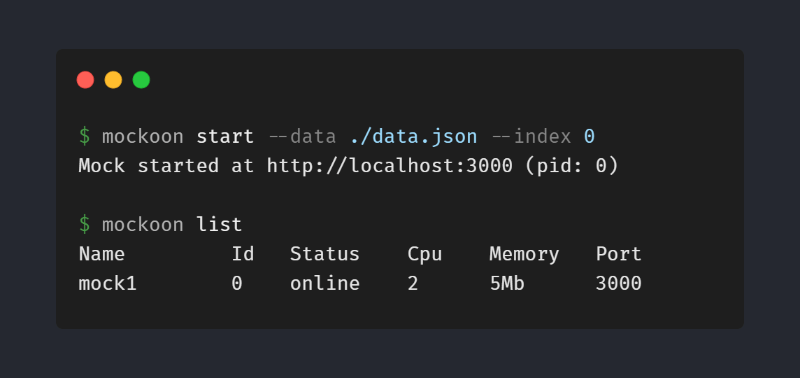
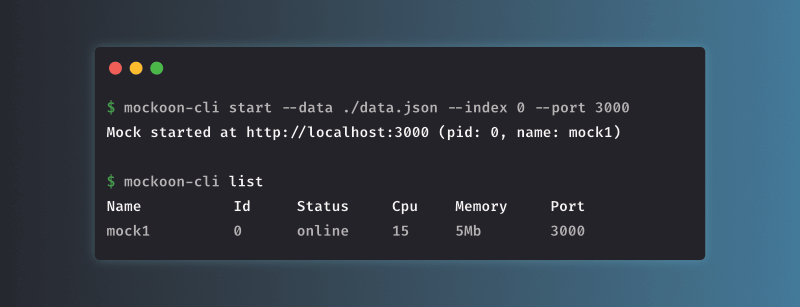
Rename command to mockoon-cli
Closes #15

diff --git a/src/commands/dockerize.ts b/src/commands/dockerize.ts
@@ -16,10 +16,10 @@ export default class Dockerize extends Command {
     'Create a Dockerfile to build a self-contained image of a mock API';
 
   public static examples = [
-    '$ mockoon dockerize --data ~/export-data.json --output ./Dockerfile',
-    '$ mockoon dockerize --data ~/export-data.json --index 0 --output ./Dockerfile',
-    '$ mockoon dockerize --data https://file-server/export-data.json --index 0 --output ./Dockerfile',
-    '$ mockoon dockerize --data ~/export-data.json --name "Mock environment" --output ./Dockerfile'
+    '$ mockoon-cli dockerize --data ~/export-data.json --output ./Dockerfile',
+    '$ mockoon-cli dockerize --data ~/export-data.json --index 0 --output ./Dockerfile',
+    '$ mockoon-cli dockerize --data https://file-server/export-data.json --index 0 --output ./Dockerfile',
+    '$ mockoon-cli dockerize --data ~/export-data.json --name "Mock environment" --output ./Dockerfile'
   ];
 
   public static flags = {

diff --git a/src/commands/start.ts b/src/commands/start.ts
@@ -20,11 +20,11 @@ export default class Start extends Command {
   public static description = 'Start a mock API';
 
   public static examples = [
-    '$ mockoon start --data ~/export-data.json',
-    '$ mockoon start --data ~/export-data.json --index 0',
-    '$ mockoon start --data https://file-server/export-data.json --index 0',
-    '$ mockoon start --data ~/export-data.json --name "Mock environment"',
-    '$ mockoon start --data ~/export-data.json --name "Mock environment" --pname "proc1"'
+    '$ mockoon-cli start --data ~/export-data.json',
+    '$ mockoon-cli start --data ~/export-data.json --index 0',
+    '$ mockoon-cli start --data https://file-server/export-data.json --index 0',
+    '$ mockoon-cli start --data ~/export-data.json --name "Mock environment"',
+    '$ mockoon-cli start --data ~/export-data.json --name "Mock environment" --pname "proc1"'
   ];
 
   public static flags = {

diff --git a/src/commands/stop.ts b/src/commands/stop.ts
@@ -10,10 +10,10 @@ import { logProcesses } from '../libs/utils';
 export default class Stop extends Command {
   public static description = 'Stop a mock API';
   public static examples = [
-    '$ mockoon stop',
-    '$ mockoon stop 0',
-    '$ mockoon stop "name"',
-    '$ mockoon stop "all"'
+    '$ mockoon-cli stop',
+    '$ mockoon-cli stop 0',
+    '$ mockoon-cli stop "name"',
+    '$ mockoon-cli stop "all"'
   ];
 
   public static flags = {

diff --git a/src/constants/docker.constants.ts b/src/constants/docker.constants.ts
@@ -4,7 +4,7 @@ RUN npm install -g @mockoon/cli@{{{version}}}
 COPY {{{filePath}}} ./data
 
 # Build runner script
-RUN echo "mockoon start \\"\\$@\\"; sleep infinity & wait \\$!" > mockoon-runner.sh
+RUN echo "mockoon-cli start \\"\\$@\\"; sleep infinity & wait \\$!" > mockoon-runner.sh
 
 # Do not run as root.
 RUN adduser --shell /bin/sh --disabled-password --gecos "" mockoon

diff --git a/src/commands/info.ts b/src/commands/info.ts
@@ -10,8 +10,8 @@ export default class Info extends Command {
   public static description = 'Display information for a running mock API';
 
   public static examples = [
-    '$ mockoon info 0',
-    '$ mockoon info "Mock_environment"'
+    '$ mockoon-cli info 0',
+    '$ mockoon-cli info "Mock_environment"'
   ];
 
   public static args = [

diff --git a/src/commands/list.ts b/src/commands/list.ts
@@ -8,7 +8,7 @@ import { logProcesses } from '../libs/utils';
 export default class List extends Command {
   public static description = 'List running mock APIs';
 
-  public static examples = ['$ mockoon list'];
+  public static examples = ['$ mockoon-cli list'];
   public static flags = {
     ...commonFlags
   };

diff --git a/README.md b/README.md
@@ -26,12 +26,12 @@ The CLI supports the same features as the main application: [templating system](
 - [Export your mock to use in the CLI](#export-your-mock-to-use-in-the-cli)
 - [Compatibility](#compatibility)
 - [Commands](#commands)
-  - [`mockoon start`](#mockoon-start)
-  - [`mockoon list`](#mockoon-list)
-  - [`mockoon info [ID]`](#mockoon-info-id)
-  - [`mockoon stop [ID]`](#mockoon-stop-id)
-  - [`mockoon dockerize`](#mockoon-dockerize)
-  - [`mockoon help [COMMAND]`](#mockoon-help-command)
+  - [`mockoon-cli start`](#mockoon-cli-start)
+  - [`mockoon-cli list`](#mockoon-cli-list)
+  - [`mockoon-cli info [ID]`](#mockoon-cli-info-id)
+  - [`mockoon-cli stop [ID]`](#mockoon-cli-stop-id)
+  - [`mockoon-cli dockerize`](#mockoon-cli-dockerize)
+  - [`mockoon-cli help [COMMAND]`](#mockoon-cli-help-command)
 - [Docker](#docker)
   - [Using the generic Docker image](#using-the-generic-docker-image)
   - [Using the `dockerize` command](#using-the-dockerize-command)
@@ -52,7 +52,7 @@ $ npm install -g @mockoon/cli
 Usage: 
 
 ```sh-session
-$ mockoon COMMAND
+$ mockoon-cli COMMAND
 ```
 
 ## Export your mock to use in the CLI
@@ -71,10 +71,10 @@ To export your environment(s) to use them in the CLI, follow these steps:
   
 2. Choose a folder to save the JSON file.
    
-3. Use the [start command](#mockoon-start) below to launch your mock APIs with the CLI:
+3. Use the [start command](#mockoon-cli-start) below to launch your mock APIs with the CLI:
 
     ```sh-sessions
-    $ mockoon start --data ~/path/to/your-file.json -i 0
+    $ mockoon-cli start --data ~/path/to/your-file.json -i 0
     ```
 
 You will find more details in the [official documentation](https://mockoon.com/docs/latest/import-export-data/).
@@ -91,21 +91,21 @@ The CLI can import and migrate data from older versions of Mockoon. If you expor
 
 ## Commands
 
-- [`mockoon start`](#mockoon-start)
-- [`mockoon list`](#mockoon-list)
-- [`mockoon info [ID]`](#mockoon-info-id)
-- [`mockoon stop [ID]`](#mockoon-stop-id)
-- [`mockoon dockerize`](#mockoon-dockerize)
-- [`mockoon help [COMMAND]`](#mockoon-help-command)
+- [`mockoon-cli start`](#mockoon-cli-start)
+- [`mockoon-cli list`](#mockoon-cli-list)
+- [`mockoon-cli info [ID]`](#mockoon-cli-info-id)
+- [`mockoon-cli stop [ID]`](#mockoon-cli-stop-id)
+- [`mockoon-cli dockerize`](#mockoon-cli-dockerize)
+- [`mockoon-cli help [COMMAND]`](#mockoon-cli-help-command)
 
-### `mockoon start`
+### `mockoon-cli start`
 
 Starts a mock API from a Mockoon's export file environment. As an export file can contain multiple environments, you can indicate the one you want to run by specifying its index in the file or its name.
 The process will be created by default with the name and port of the Mockoon's environment. You can override these values by using the `--port` and `--pname` flags.
 
 ```
 USAGE
-  $ mockoon start
+  $ mockoon-cli start
 
 OPTIONS
   -d, --data=data    (required) Path or URL to your Mockoon data export file
@@ -116,35 +116,35 @@ OPTIONS
   -h, --help         show CLI help
 
 EXAMPLES
-  $ mockoon start --data ~/export-data.json
-  $ mockoon start --data ~/export-data.json --index 0
-  $ mockoon start --data https://file-server/export-data.json --index 0
-  $ mockoon start --data ~/export-data.json --name "Mock environment"
-  $ mockoon start --data ~/export-data.json --name "Mock environment" --pname "proc1"
+  $ mockoon-cli start --data ~/export-data.json
+  $ mockoon-cli start --data ~/export-data.json --index 0
+  $ mockoon-cli start --data https://file-server/export-data.json --index 0
+  $ mockoon-cli start --data ~/export-data.json --name "Mock environment"
+  $ mockoon-cli start --data ~/export-data.json --name "Mock environment" --pname "proc1"
 ```
 
-### `mockoon list`
+### `mockoon-cli list`
 
 Lists the running mock APIs and display some information: process name, pid, status, cpu, memory, port.
 
 ```
 USAGE
-  $ mockoon list
+  $ mockoon-cli list
 
 OPTIONS
   -h, --help  show CLI help
 
 EXAMPLE
-  $ mockoon list
+  $ mockoon-cli list
 ```
 
-### `mockoon info [ID]`
+### `mockoon-cli info [ID]`
 
 Returns some information about a running mock API: process name, pid, status, cpu, memory, port.
 
 ```
 USAGE
-  $ mockoon info [ID]
+  $ mockoon-cli info [ID]
 
 ARGUMENTS
   ID  Running API pid or name (default: 0)
@@ -153,17 +153,17 @@ OPTIONS
   -h, --help  show CLI help
 
 EXAMPLES
-  $ mockoon info 0
-  $ mockoon info "Mock_environment"
+  $ mockoon-cli info 0
+  $ mockoon-cli info "Mock_environment"
 ```
 
-### `mockoon stop [ID]`
+### `mockoon-cli stop [ID]`
 
 Stops one or more running processes. When 'all' is provided, all processes will be stopped.
 
 ```
 USAGE
-  $ mockoon stop [ID]
+  $ mockoon-cli stop [ID]
 
 ARGUMENTS
   ID  Running API pid or name
@@ -172,13 +172,13 @@ OPTIONS
   -h, --help  show CLI help
 
 EXAMPLE
-  $ mockoon stop
-  $ mockoon stop 0
-  $ mockoon stop "name"
-  $ mockoon stop "all"
+  $ mockoon-cli stop
+  $ mockoon-cli stop 0
+  $ mockoon-cli stop "name"
+  $ mockoon-cli stop "all"
 ```
 
-### `mockoon dockerize`
+### `mockoon-cli dockerize`
 
 Generates a Dockerfile used to build a self-contained image of a mock API. After building the image, no additional parameters will be needed when running the container. 
 This command takes similar flags as the [`start` command](#mockoon-start). 
@@ -189,7 +189,7 @@ For more information on how to build the image: [Using the dockerize command](#u
 
 ```
 USAGE
-  $ mockoon dockerize
+  $ mockoon-cli dockerize
 
 OPTIONS
   -d, --data=data    (required) Path or URL to your Mockoon data export file
@@ -200,19 +200,19 @@ OPTIONS
   -h, --help         show CLI help
 
 EXAMPLES
-  $ mockoon dockerize --data ~/export-data.json --output ./Dockerfile
-  $ mockoon dockerize --data ~/export-data.json --index 0 --output ./Dockerfile
-  $ mockoon dockerize --data https://file-server/export-data.json --index 0 --output ./Dockerfile
-  $ mockoon dockerize --data ~/export-data.json --name "Mock environment" --output ./Dockerfile
+  $ mockoon-cli dockerize --data ~/export-data.json --output ./Dockerfile
+  $ mockoon-cli dockerize --data ~/export-data.json --index 0 --output ./Dockerfile
+  $ mockoon-cli dockerize --data https://file-server/export-data.json --index 0 --output ./Dockerfile
+  $ mockoon-cli dockerize --data ~/export-data.json --name "Mock environment" --output ./Dockerfile
 ```
 
-### `mockoon help [COMMAND]`
+### `mockoon-cli help [COMMAND]`
 
 Returns information about a command.
 
 ```
 USAGE
-  $ mockoon help [COMMAND]
+  $ mockoon-cli help [COMMAND]
 
 ARGUMENTS
   COMMAND  command to show help for
@@ -227,23 +227,23 @@ OPTIONS
 
 A generic Docker image is published on the [Docker Hub Mockoon CLI repository](https://hub.docker.com/repository/docker/mockoon/cli). It uses `node:14-alpine` and installs the latest version of Mockoon CLI. 
 
-All of `mockoon start` flags (`--port`, `--index`, etc.) must be provided when running the container. 
+All of `mockoon-cli start` flags (`--port`, `--index`, etc.) must be provided when running the container. 
 
-To load the Mockoon data, you can either mount a local data file and pass `mockoon start` flags at the end of the command:
+To load the Mockoon data, you can either mount a local data file and pass `mockoon-cli start` flags at the end of the command:
 
 `docker run -d --mount type=bind,source=/home/your-data-file.json,target=/data,readonly -p 3000:3000 mockoon/cli:latest -d data -i 0 -p 3000`
 
-Or directly pass a URL to the `mockoon start` command, without mounting a local data file:
+Or directly pass a URL to the `mockoon-cli start` command, without mounting a local data file:
 
 `docker run -d -p 3000:3000 mockoon/cli:latest -d https://raw.githubusercontent.com/mockoon/mock-samples/main/samples/generate-mock-data.json -i 0 -p 3000`
 
 ### Using the `dockerize` command
 
-You can use the [`dockerize` command](#mockoon-dockerize) to generate a new Dockerfile that will allow you to build a self-contained image. Thus, no Mockoon CLI specific parameters will be needed when running the container.
+You can use the [`dockerize` command](#mockoon-cli-dockerize) to generate a new Dockerfile that will allow you to build a self-contained image. Thus, no Mockoon CLI specific parameters will be needed when running the container.
 
 - Run the `dockerize` command:
 
-  `mockoon dockerize --data ./sample-data.json --port 3000 --index 0 --output ./tmp/Dockerfile`
+  `mockoon-cli dockerize --data ./sample-data.json --port 3000 --index 0 --output ./tmp/Dockerfile`
 
 - navigate to the `tmp` folder, where the Dockerfile has been generated:
   
